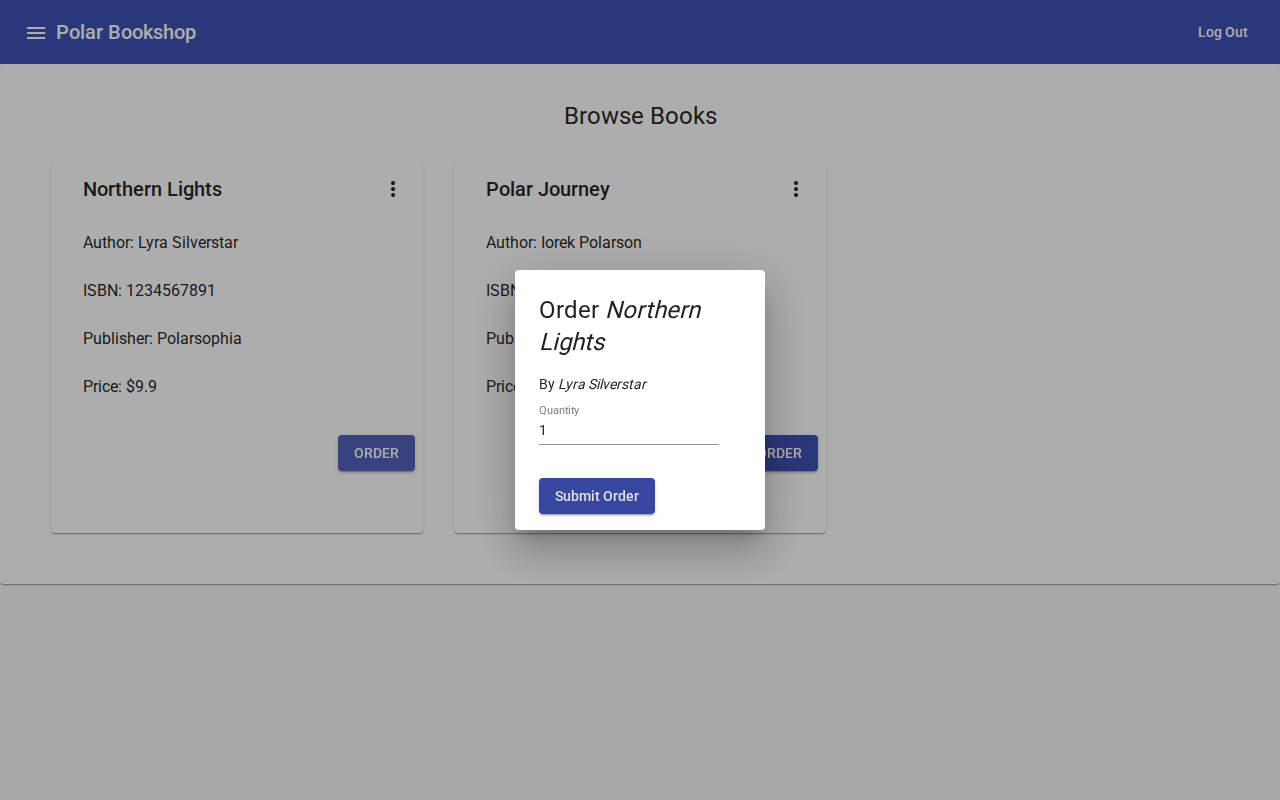
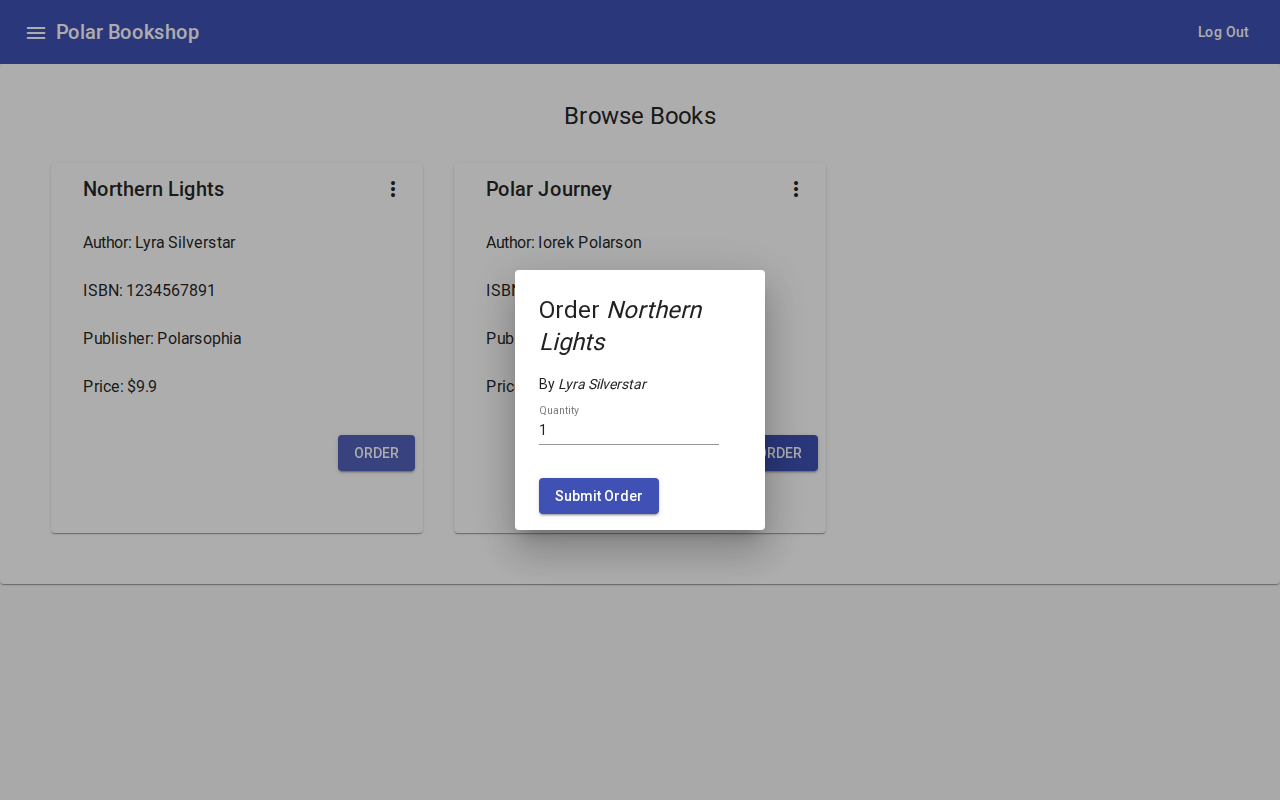
test: Take the look's baseline with Google Fonts, as users see it
The other tests block Google Fonts, so the icons showed their ligature names. The visual run
lets them load, and the baseline is taken again from the build with Google Fonts. v1.3.0's
note and the plan say the self-hosted fonts are deferred until edge-service serves /media/**.

diff --git a/e2e/tests/screens.spec.ts b/e2e/tests/screens.spec.ts
@@ -2,7 +2,7 @@ import AxeBuilder from '@axe-core/playwright';
 import { mkdirSync, writeFileSync } from 'node:fs';
 import { join } from 'node:path';
 import type { Page } from '@playwright/test';
-import { test, expect, CUSTOMER, EMPLOYEE, NORTHERN_LIGHTS, type Order, cards, openMenu } from './polar';
+import { test, expect, CUSTOMER, EMPLOYEE, FONTS, NORTHERN_LIGHTS, type Order, cards, openMenu } from './polar';
 
 // Not tests: a record of how the main pages look, and what axe-core finds on them, to compare
 // before and after a change to the look, such as Angular Material's. Run only with
@@ -11,6 +11,11 @@ import { test, expect, CUSTOMER, EMPLOYEE, NORTHERN_LIGHTS, type Order, cards, o
 const dir = process.env.UI_TEST_VISUAL ?? '';
 
 test.use({ viewport: { width: 1280, height: 800 } });
+
+// The other tests block Google Fonts; the screenshots show the fonts and icons users see.
+test.beforeEach(async ({ page }) => {
+  await page.unroute(FONTS);
+});
 
 async function record(page: Page, name: string) {
   await page.evaluate(() => document.fonts.ready);

diff --git a/e2e/tests/polar.ts b/e2e/tests/polar.ts
@@ -130,7 +130,7 @@ type Problems = { allow(...patterns: RegExp[]): void };
 
 // Google Fonts: index.html links its stylesheets. The tests block them, so that they don't
 // depend on Google; the icons then show their ligature names, and the text a fallback font.
-const FONTS = /^https:\/\/fonts\.(googleapis|gstatic)\.com\//;
+export const FONTS = /^https:\/\/fonts\.(googleapis|gstatic)\.com\//;
 
 export const test = base.extend<{ problems: Problems; api: Api }>({
   // Every test fails on a browser problem it doesn't expect: a response of 400 or more, a failed

diff --git a/plan/angular-update.md b/plan/angular-update.md
@@ -128,7 +128,10 @@ Facts checked on 2026-10-29 against angular.dev/reference/releases and /versions
    - requests carry `X-Requested-With: XMLHttpRequest`;
    - the logout form posts `_csrf` with the cookie's value;
    - a 401 on anything but `/user` goes to `/oauth2/authorization/keycloak`.
-4. **Fonts and icons hosted by the app:**
+4. **Fonts and icons hosted by the app — deferred** (2026-10-29). Tried, and reverted before v1.3.0: through edge-service the font files got 401, since its `SecurityConfig` permits, and its `spa-route` forwards, only `/`, `/*.css`, `/*.js` and `/favicon.ico`. The fork's own tests serve `dist/public` directly, so only the main repository's browser tests found it.
+   - **Comes back** once edge-service lets `/media/**` through (asked of the main repository's session), with the font files under `media/`: `resourcesOutputPath: "media"` on the `browser` builder, which is where the `application` builder puts them by default.
+   - The visual run (step 5) loads Google Fonts meanwhile, so the screenshots show what users see.
+   - **What was tried:
    - `@fontsource/roboto` (5.3.x, OFL-1.1; weights 300/400/500) and `material-icons` (1.13.x, Apache-2.0) go into the `styles` of `angular.json` (build and test);
    - the Google Fonts `<link>`s leave `index.html`.
    - Why:

diff --git a/README.md b/README.md
@@ -28,9 +28,9 @@ Differences from the original:
 The update to Angular 22 and Node.js 24 is planned in
 [`plan/angular-update.md`](plan/angular-update.md).
 
-- **v1.3.0** (Angular 13): the fonts and icons come from the SPA, not from Google Fonts. The
-  page is titled "Polar Bookshop". The look is otherwise unchanged
-  ([`plan/screens/v13`](plan/screens/v13)).
+- **v1.3.0** (Angular 13): the page is titled "Polar Bookshop"; the look is unchanged
+  ([`plan/screens/v13`](plan/screens/v13)). The build has the node-gradle plugin 7.1.0, and
+  the e2e tests pin the CSRF token and headers the SPA sends.
 - **v1.2.1** and earlier: see git history.
 
 ## Instructions
